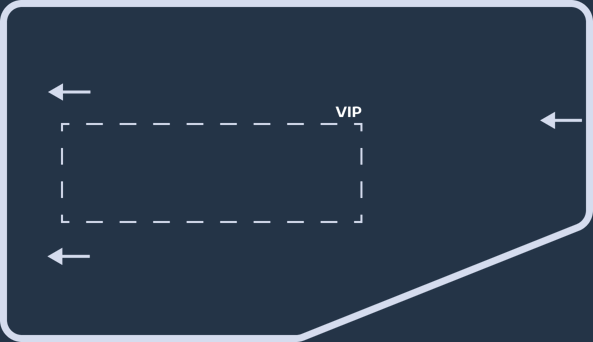
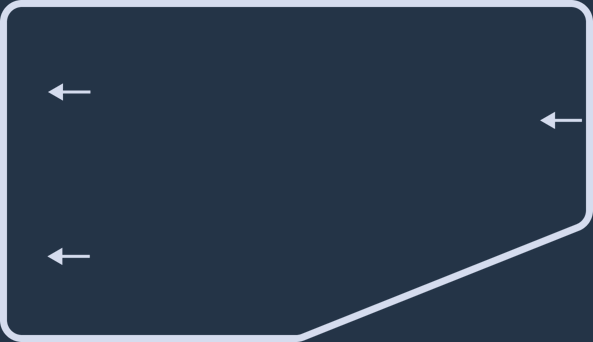
Update main.py and parking_border.png

diff --git a/source-code/main.py b/source-code/main.py
@@ -15,6 +15,7 @@
 import tkinter as tk
 from PIL import ImageTk, Image
 import os
+from datetime import datetime
 
 
 # Inisialisasi Awal
@@ -31,20 +32,12 @@ tempat_parkir = {
             'space': 20,
             'rate': 5000  # Tarif per hari
         },
-        'VIP': {
-            'space': 5,
-            'rate': 10000  # Tarif per hari
-        }
     },
     'mobil': {
         'reguler': {
             'space': 50,
             'rate': 10000  # Tarif per hari
         },
-        'VIP': {
-            'space': 10,
-            'rate': 20000  # Tarif per hari
-        }
     }
 }
 ## Dictionary Blok Parkir
@@ -53,7 +46,10 @@ blokk = {
     'B': 1,
     'C': 2,
     'D': 3,
-    'E': 4
+    'E': 4,
+    'F': 5,
+    'G': 6,
+    'H': 7
 }
 
 ##
@@ -61,8 +57,11 @@ vehicle_type    = ''
 slot_id         = ["", 0]
 slots           = [[0 for j in range(5)] for i in range(5)]     +   [[0 for i in range(10)] for i in range(4)]
 plat            = [["" for j in range(5)] for i in range(5)]    +   [["" for j in range(10)] for i in range(4)]
-tersedia_mobil  = 19
-tersedia_motor  = 40
+durasi          = [[0 for j in range(5)] for i in range(5)]     +   [[0 for i in range(10)] for i in range(4)]
+tersedia_mobil  = 20
+tersedia_motor  = 36
+jam, menit, detik = 0, 0, 0
+berjalan        = True
 
 # Konfigurasi Window
 window  = tk.Tk()
@@ -107,7 +106,7 @@ def isAlphabetic(x: str) -> bool:
 
 ## Prosedur label
 def label(label_img: tk.PhotoImage, page: tk.Frame, x: float, y: float, width: float, height: float):
-    # Mencetak label Tkinter
+    # Mencetak label Tkinter bergambar
     label_l    = tk.Label(page, image = label_img)
     label_l.place(
         x       = x,
@@ -118,12 +117,26 @@ def label(label_img: tk.PhotoImage, page: tk.Frame, x: float, y: float, width: f
     return
 
 ## Prosedur slot_clicked
-def slot_clicked(slot: tk.Button, blok: str, num: int, slot_id = slot_id):
+def slot_clicked(slot: tk.Button, blok: str, num: int, type: str, slot_id = slot_id):
+    global tersedia_mobil, tersedia_motor
     # Simpan data blok dan nomor parkir secara sementara
     slot_id[0] = blokk[blok]
     slot_id[1] = num-1
+    
+    # Menyimpan data
     slots[slot_id[0]][slot_id[1]] = 1
-    slot.config(state='disabled', background="#A7B8C8")
+    durasi[slot_id[0]][slot_id[1]] = datetime.now()
+
+    # Counter ketersediaan slot parkir
+    if type == 'mobil':
+        tersedia_mobil -= 1
+        tersedia_mobil_l['text'] = tersedia_mobil
+        gktersedia_mobil_l['text'] = 20 - tersedia_mobil
+    else: # type == 'motor'
+        tersedia_motor -= 1
+        tersedia_motor_l['text'] = tersedia_motor
+        gktersedia_motor_l['text'] = 36 - tersedia_motor
+
     # Reset kondisi entri dan dropdown
     kode_wilayah_menu['state']  = 'normal'
     nopol_menu['state']         = 'normal'
@@ -132,8 +145,10 @@ def slot_clicked(slot: tk.Button, blok: str, num: int, slot_id = slot_id):
     nopol_menu.delete(0, 4)
     seri_wilayah_menu.delete(0, 4)
     kode_wilayah.set(plat_nomor[0])
+
     # Menuju p3
     p3.tkraise()
+    slot.config(state='disabled', background="#A7B8C8")
     return 
 
 ## Prosedur slot
@@ -150,10 +165,14 @@ def slot(x: float, y: float, blok: str, num: int, page: tk.Frame, disabled: bool
         width   = 34,
         height  = 51
     )
+    if page == p2_mobil:
+        tipe = 'mobil'
+    else: #page == p2_motor
+        tipe = 'motor'
     slot_l.configure(borderwidth=0, 
                      highlightthickness=0, 
                      activebackground="#D5DCEE",
-                     command= lambda: slot_clicked(slot_l, blok, num))
+                     command= lambda: slot_clicked(slot_l, blok, num, type=tipe))
     return
 
 
@@ -181,15 +200,15 @@ def caps(*args):
 ## Prosedur limit_n
 def limit_n(n: int, entri: tk.StringVar, input_type: str):
     # Membatasi panjang entri menjadi n karakter dan membatasi jenis input
-    if len(entri.get()) > n-1:
-        entri.set(entri.get()[:n])
+    masukan = entri.get()
+    if len(masukan) > n-1:
+        entri.set(masukan[:n])
     if input_type == 'alphabetic':
-        if not isAlphabetic(entri.get()):
-            entri.set(entri.get()[:len(entri.get()) - 1])
+        if not isAlphabetic(masukan):
+            entri.set(masukan[:len(masukan) - 1])
     elif input_type == 'numeric':
-        if not isNumeric(entri.get()):
-            entri.set(entri.get()[:len(entri.get()) - 1])
-
+        if not isNumeric(masukan):
+            entri.set(masukan[:len(masukan) - 1])
     return
         
 
@@ -307,6 +326,7 @@ slot(160, 234, 'C', 1, p2_mobil)
 slot(230, 234, 'C', 2, p2_mobil)
 slot(300, 234, 'C', 3, p2_mobil)
 slot(370, 234, 'C', 4, p2_mobil)
+slot(440, 234, 'C', 5, p2_mobil)
 
 #### Blok D
 slot(117, 363, 'D', 1, p2_mobil)
@@ -315,12 +335,94 @@ slot(201, 363, 'D', 3, p2_mobil)
 slot(243, 363, 'D', 4, p2_mobil)
 slot(285, 363, 'D', 5, p2_mobil)
 
+### Counter Ketersediaan Slot Parkir
+tersedia_mobil_l = tk.Label(p2_mobil, text=str(tersedia_mobil), font='Garamond 15', background='#243447',fg='#D5DCEE')
+tersedia_mobil_l.place(
+    x       = 630,
+    y       = 407
+)
+
+gktersedia_mobil_l = tk.Label(p2_mobil, text=str(20 - tersedia_mobil), font='Garamond 15', background='#243447',fg='#D5DCEE')
+gktersedia_mobil_l.place(
+    x       = 630,
+    y       = 458
+)
+
+
 # Halaman 2 (Motor)
 p2_motor.configure(bg="#243447")
 p2_motor.place(anchor='center', relx=0.5, rely=0.5)
 
 ## Tombol Home
 home(p2_motor)
+
+## Layout Parkir
+### Border
+label(border_img, p2_motor, 70, 85, 593, 342)
+
+### Tersedia?
+label(text2_img, p2_motor, 486, 404, 144, 83)
+
+### Markirr Logo
+label(markirrl_img, p2_motor, 26, 506, 125, 42)
+
+### Button Parkir
+#### Blok E
+slot(117, 98, 'E', 1, p2_motor)
+slot(159, 98, 'E', 2, p2_motor)
+slot(201, 98, 'E', 3, p2_motor)
+slot(243, 98, 'E', 4, p2_motor)
+slot(285, 98, 'E', 5, p2_motor)
+slot(327, 98, 'E', 6, p2_motor)
+slot(369, 98, 'E', 7, p2_motor)
+slot(411, 98, 'E', 8, p2_motor)
+slot(453, 98, 'E', 9, p2_motor)
+slot(495, 98, 'E', 10, p2_motor)
+
+#### Blok F
+slot(117, 200, 'F', 1, p2_motor)
+slot(159, 200, 'F', 2, p2_motor)
+slot(201, 200, 'F', 3, p2_motor)
+slot(243, 200, 'F', 4, p2_motor)
+slot(285, 200, 'F', 5, p2_motor)
+slot(327, 200, 'F', 6, p2_motor)
+slot(369, 200, 'F', 7, p2_motor)
+slot(411, 200, 'F', 8, p2_motor)
+slot(453, 200, 'F', 9, p2_motor)
+slot(495, 200, 'F', 10, p2_motor)
+
+#### Blok G
+slot(117, 268, 'G', 1, p2_motor)
+slot(159, 268, 'G', 2, p2_motor)
+slot(201, 268, 'G', 3, p2_motor)
+slot(243, 268, 'G', 4, p2_motor)
+slot(285, 268, 'G', 5, p2_motor)
+slot(327, 268, 'G', 6, p2_motor)
+slot(369, 268, 'G', 7, p2_motor)
+slot(411, 268, 'G', 8, p2_motor)
+slot(453, 268, 'G', 9, p2_motor)
+slot(495, 268, 'G', 10, p2_motor)
+
+#### Blok H
+slot(117, 363, 'H', 1, p2_motor)
+slot(159, 363, 'H', 2, p2_motor)
+slot(201, 363, 'H', 3, p2_motor)
+slot(243, 363, 'H', 4, p2_motor)
+slot(285, 363, 'H', 5, p2_motor)
+slot(327, 363, 'H', 6, p2_motor)
+
+### Counter Ketersediaan Slot Parkir
+tersedia_motor_l = tk.Label(p2_motor, text=str(tersedia_motor), font='Garamond 15', background='#243447',fg='#D5DCEE')
+tersedia_motor_l.place(
+    x       = 630,
+    y       = 407
+)
+
+gktersedia_motor_l = tk.Label(p2_motor, text=str(36 - tersedia_motor), font='Garamond 15', background='#243447',fg='#D5DCEE')
+gktersedia_motor_l.place(
+    x       = 630,
+    y       = 459
+)
 
 # Halaman 3 (Plat Nomor)
 p3.configure(bg="#243447")
@@ -334,11 +436,7 @@ label(markirrw_img, p3, 264, 42, 257, 98)
 ## Instruksi
 label(text3_img, p3, 227, 285, 304, 21)
 
-## Tombol Home
-
 ## TNKB
-tnkb = "          "
-
 ### Dropdown Kode Wilayah
 kode_wilayah = tk.StringVar(p3)
 kode_wilayah.set(plat_nomor[0])
